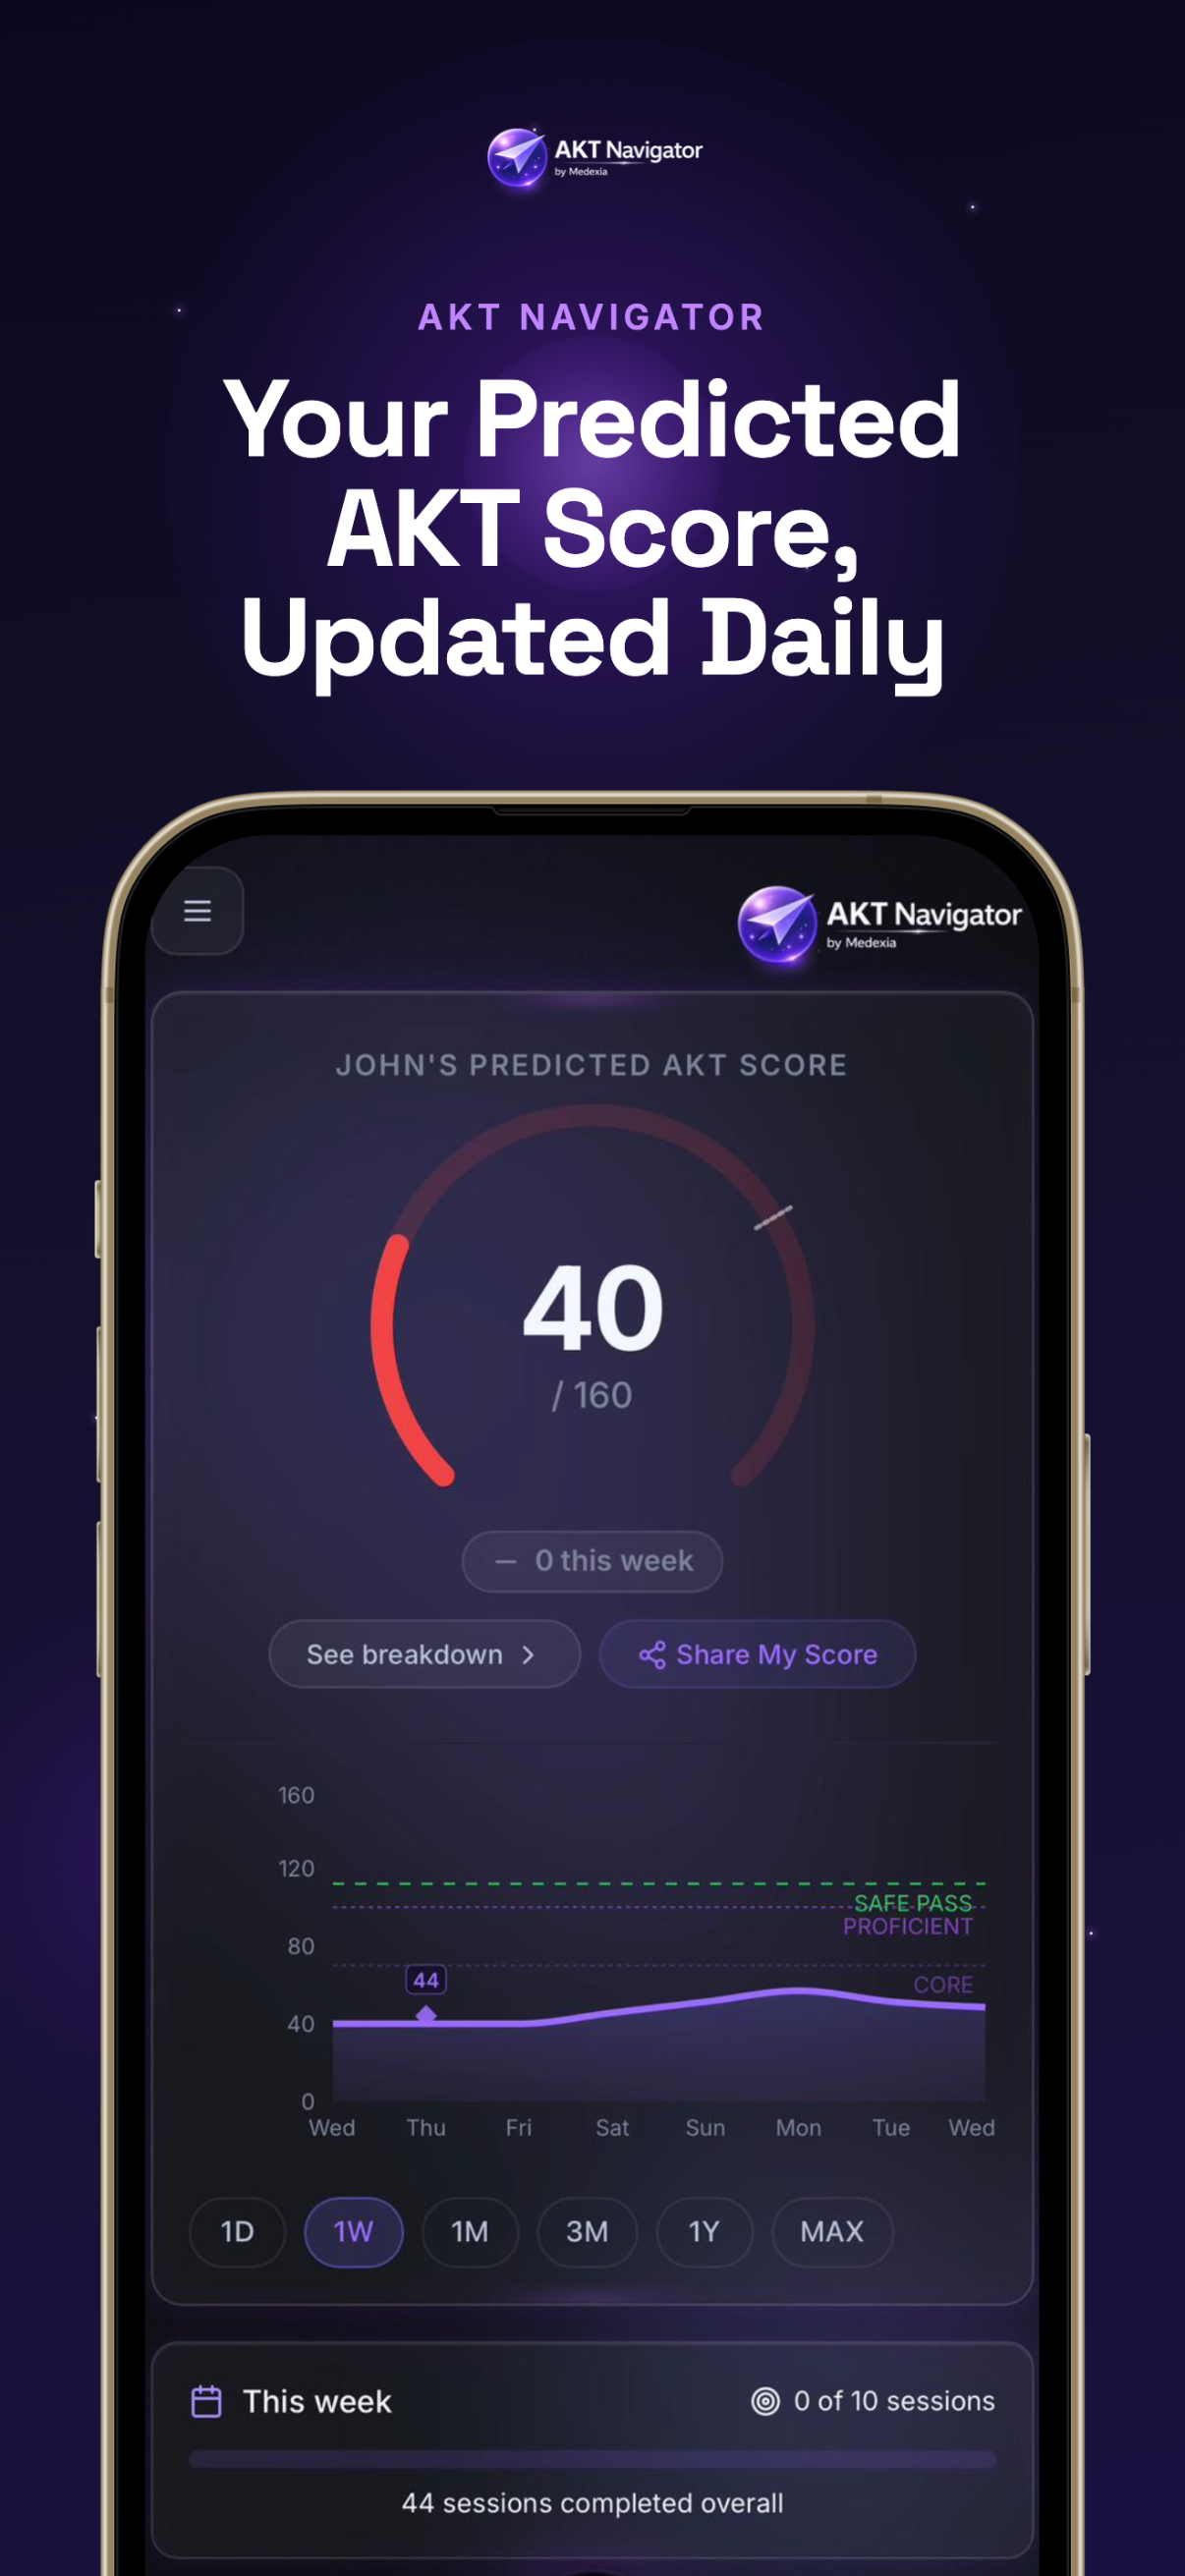
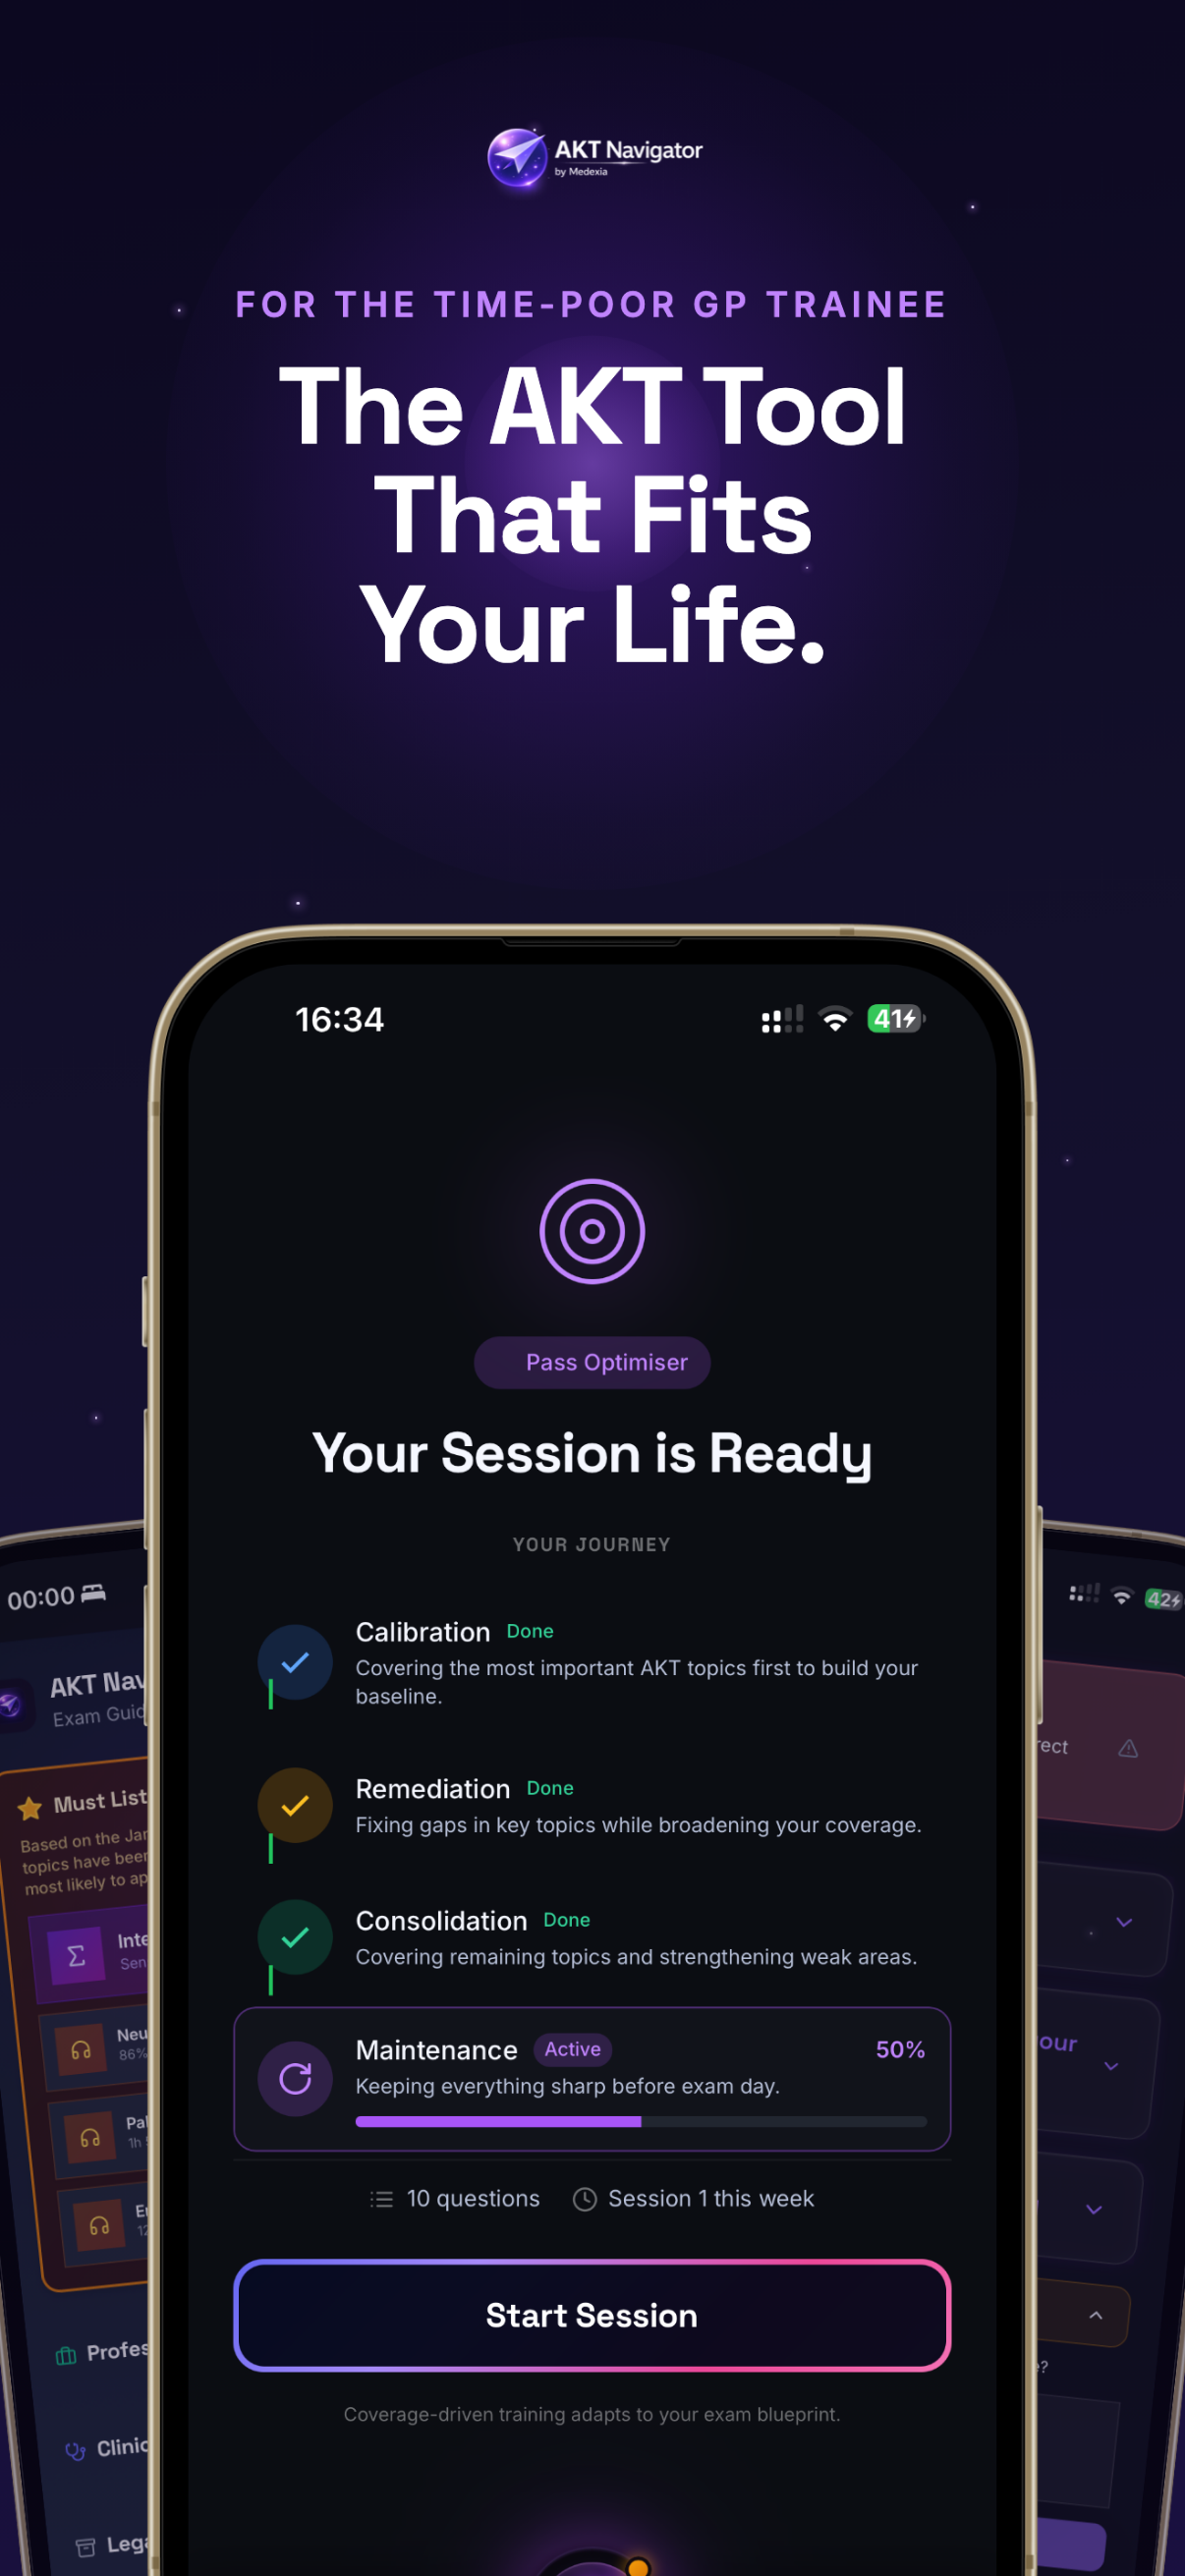
feat(appshots): re-export full screenshot set to match landing story
Regenerated all 6 App Store screenshots through the medexia-app-store-
screenshots generator, with a new narrative arc aligned to the rethink:

  01 Hero     — "The AKT tool that fits your life." (3-phone composite)
  02 Audio    — "90+ hours in your earphones." (USP — full-width)
  03 Algorithm — "The fastest path to pass."
  04 Mocks    — "See where you're confidently wrong." (AI debrief)
  05 Examiner — "Taught by an examiner." (two-phone layered)
  06 Ready    — "Know you're on track to pass." (pills + Free for April & July)

The audio slide's in-phone content is now the fresh IMG_4797 capture
(Must Listen Before Your Exam section, topic progress, updated nav
bar) instead of the older list view that said "50 Hours" in the
headline.

Landing page refs updated:
- HeroSection: 03-audio → 02-audio
- NotesVsAudio: 03-audio → 02-audio
- Both bump the Image width/height to the full 1206x2622 for crisper
  next/image sizing.

Old 25-Mar set (02-sessions, 03-audio, 05-explanations, 06-everything)
removed from public/appshots since they're no longer referenced
anywhere and the slide IDs have changed.

The orphan src/app/screenshots/ page in this repo is untracked — the
canonical generator is in the medexia-app-store-screenshots repo, run
via `npm run export-screenshots` there (Playwright script, reliable).

diff --git a/src/components/sections/HeroSection.tsx b/src/components/sections/HeroSection.tsx
@@ -112,10 +112,10 @@ export function HeroSection() {
                 }}
               >
                 <Image
-                  src="/appshots/03-audio-1206x2622.png"
-                  alt="AKT Navigator audio player — 90+ hours of MRCGP revision you can take anywhere"
-                  width={603}
-                  height={1311}
+                  src="/appshots/02-audio-1206x2622.png"
+                  alt="AKT Navigator audio library — 90+ hours of MRCGP revision, Must Listen Before Your Exam, topic progress tracking"
+                  width={1206}
+                  height={2622}
                   className="w-full h-auto"
                   priority
                 />

diff --git a/src/components/sections/NotesVsAudio.tsx b/src/components/sections/NotesVsAudio.tsx
@@ -148,10 +148,10 @@ export function NotesVsAudio() {
                   }}
                 >
                   <Image
-                    src="/appshots/03-audio-1206x2622.png"
-                    alt="AKT Navigator audiobook player"
-                    width={603}
-                    height={1311}
+                    src="/appshots/02-audio-1206x2622.png"
+                    alt="AKT Navigator audiobook library"
+                    width={1206}
+                    height={2622}
                     className="w-full h-auto"
                   />
                 </div>